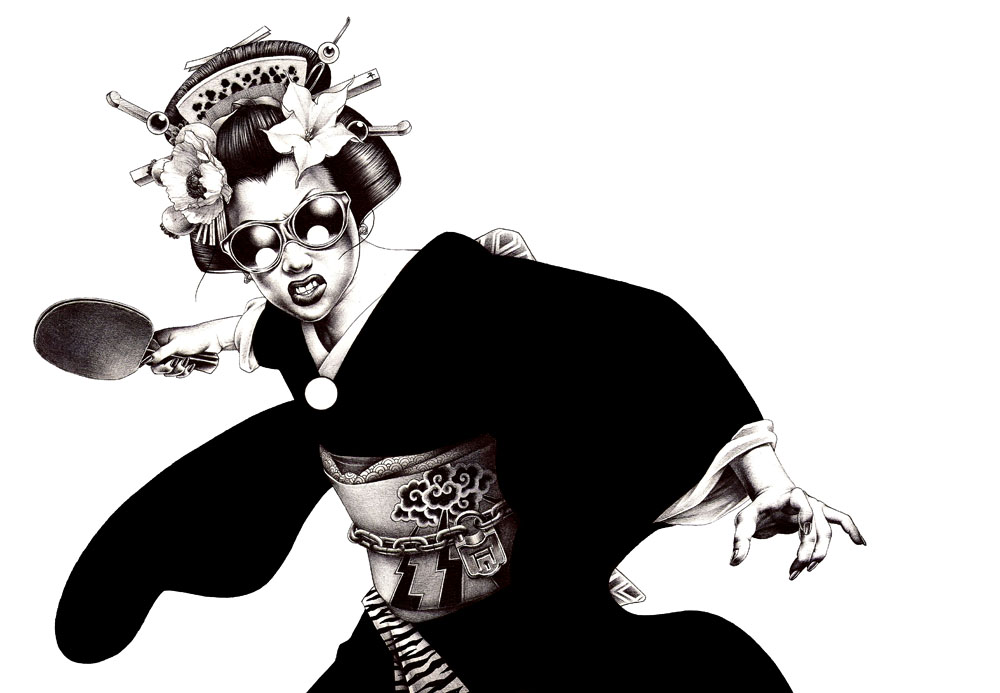
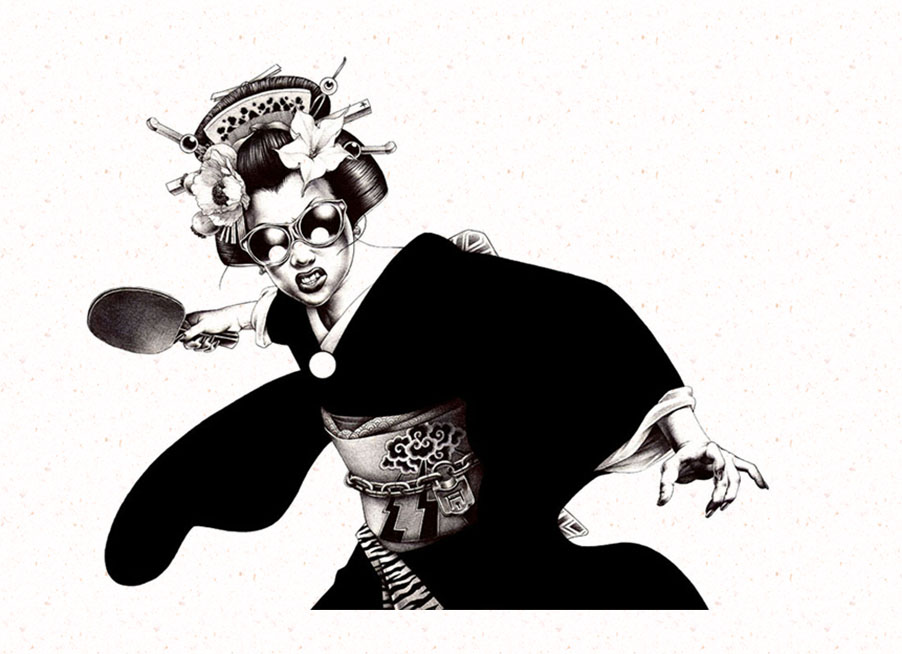
add style

Changed region(s): [[0.031, 0.0306, 0.6829, 0.9786], [0.1552, 0.581, 0.8692, 1.0], [0.0931, 0.1223, 0.1242, 0.1529]]

diff --git a/slideshow.html b/slideshow.html
@@ -3,21 +3,43 @@
     <head>
         <meta charset="utf-8">
         <title>Slideshow</title>
+        <style>
+        body {
+        	margin:0;
+        	width:100%;
+        	height:100%;
+        }
+        #content{
+        	background:url('images/bg.jpg');
+        }
+        #image{
+        	margin-left:15%;
+        	margin-top:5px;
+        	width: 70%;
+        	height: 50%;
+        }
+        </style>
     </head>
     <body>
+    <div id="content">
         <img id="image" src="images/1.jpg" alt="">
+    </div>
         <script src="jquery-1.11.0.js"></script>
         <script>
-        var num = 1;
-        var max = 5;
+		var num = 1;
+        var max = 4;
 		$('#image').click(function() {
 			num++;
 			if (num > max) {
 				num = 1;
 			}
-			var image = 'images/' + num + '.jpg';
-			this.src = image;
-		})
+			$('#image').fadeOut(250, function() {
+			//fadeOut is a build in style
+				$('#image').attr('src', 'images/' + num + '.jpg');
+				//attr is adding sth, find the words in the id area
+				$('#image').fadeIn(250);
+			});
+		});
         </script>
     </body>
 </html>
